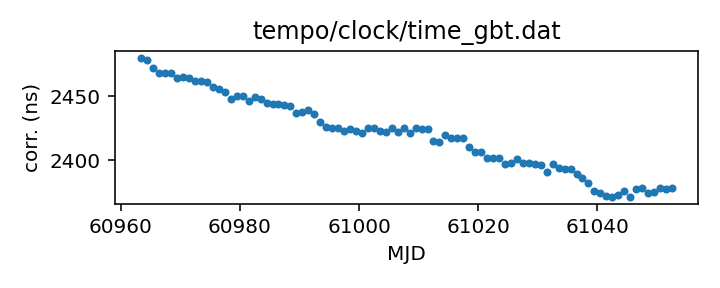
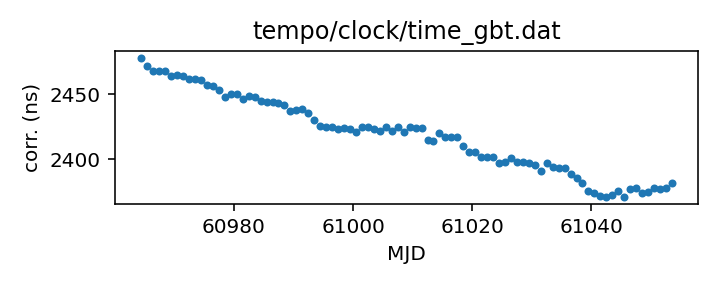
Routine gh-pages update from Github action Wed Jan 14 20:45:09 UTC 2026

diff --git a/status.md b/status.md
@@ -13,18 +13,18 @@ name of each clock file links to a page with more details.
 
 | Name | File | Corrections start | Corrections end | Last check date | Last check result 
 |:--- |:--- | --- | --- | --- |:--- 
-| [GPS to UTC](T2runtime/clock/gps2utc.clk.html) | `T2runtime/clock/gps2utc.clk` | 1993-01-01 MJD 48988.0 | 2025-12-30 MJD 61039.0 | 2026-01-13 | Unchanged 
-| [GPS to UTC (Combined Clock)](T2runtime/clock/gps2utc_cc.clk.html) | `T2runtime/clock/gps2utc_cc.clk` | 1993-01-01 MJD 48988.0 | 2025-12-30 MJD 61039.0 | 2026-01-13 | Unchanged 
-| [GPS to UTC (Corrected)](T2runtime/clock/gps2utc_c0p.clk.html) | `T2runtime/clock/gps2utc_c0p.clk` | 2010-12-29 MJD 55559.0 | 2025-12-30 MJD 61039.0 | 2026-01-13 | Unchanged 
-| [GBT](tempo/clock/time_gbt.dat.html) | `tempo/clock/time_gbt.dat` | 2000-12-31 MJD 51909.5 | 2026-01-12 MJD 61052.5 | 2026-01-13 | Updated 
-| [GBT (TEMPO2 converted from TEMPO)](T2runtime/clock/gbt2gps.clk.html) | `T2runtime/clock/gbt2gps.clk` | 2000-12-31 MJD 51909.5 | 2024-05-18 MJD 60448.5 | 2026-01-13 | **Validation failed** 
+| [GPS to UTC](T2runtime/clock/gps2utc.clk.html) | `T2runtime/clock/gps2utc.clk` | 1993-01-01 MJD 48988.0 | 2025-12-30 MJD 61039.0 | 2026-01-14 | Unchanged 
+| [GPS to UTC (Combined Clock)](T2runtime/clock/gps2utc_cc.clk.html) | `T2runtime/clock/gps2utc_cc.clk` | 1993-01-01 MJD 48988.0 | 2025-12-30 MJD 61039.0 | 2026-01-14 | Unchanged 
+| [GPS to UTC (Corrected)](T2runtime/clock/gps2utc_c0p.clk.html) | `T2runtime/clock/gps2utc_c0p.clk` | 2010-12-29 MJD 55559.0 | 2025-12-30 MJD 61039.0 | 2026-01-14 | Unchanged 
+| [GBT](tempo/clock/time_gbt.dat.html) | `tempo/clock/time_gbt.dat` | 2000-12-31 MJD 51909.5 | 2026-01-13 MJD 61053.5 | 2026-01-14 | Updated 
+| [GBT (TEMPO2 converted from TEMPO)](T2runtime/clock/gbt2gps.clk.html) | `T2runtime/clock/gbt2gps.clk` | 2000-12-31 MJD 51909.5 | 2024-05-18 MJD 60448.5 | 2026-01-14 | **Validation failed** 
 | [Jodrell Bank](T2runtime/clock/jb2gps.clk.html) | `T2runtime/clock/jb2gps.clk` | 2006-10-13 MJD 54021.4 | 2025-10-08 MJD 60956.0 | 2026-01-12 | **Validation failed** 
 | [Jodrell Bank Roach](T2runtime/clock/jbroach2jb.clk.html) | `T2runtime/clock/jbroach2jb.clk` | 2006-10-13 MJD 54021.4 | 2018-03-20 MJD 58197.6 | 2026-01-12 | Unchanged 
 | [Jodrell Bank DFB](T2runtime/clock/jbdfb2jb.clk.html) | `T2runtime/clock/jbdfb2jb.clk` | 2006-10-13 MJD 54021.4 | 2021-02-22 MJD 59268.0 | 2026-01-12 | Unchanged 
 | [Meerkat (observatory)](T2runtime/clock/mk2utc_observatory.clk.html) | `T2runtime/clock/mk2utc_observatory.clk` | 2019-01-01 MJD 58484.0 | 2026-01-07 MJD 61048.0 | 2026-01-12 | Updated 
-| [Leap seconds](tempo/clock/leap.sec.html) | `tempo/clock/leap.sec` | 1972-07-01 MJD 41499.0 | 2017-01-01 MJD 57754.0 | 2026-01-13 | Unchanged 
-| [UT1 table](tempo/clock/ut1.dat.html) | `tempo/clock/ut1.dat` | 1973-01-02 MJD 41684.0 | 2027-01-16 MJD 61421.0 | 2026-01-13 | Unchanged 
-| [UT1 table](T2runtime/clock/ut1.dat.html) | `T2runtime/clock/ut1.dat` | 1973-01-02 MJD 41684.0 | 2027-01-16 MJD 61421.0 | 2026-01-13 | Unchanged 
+| [Leap seconds](tempo/clock/leap.sec.html) | `tempo/clock/leap.sec` | 1972-07-01 MJD 41499.0 | 2017-01-01 MJD 57754.0 | 2026-01-14 | Unchanged 
+| [UT1 table](tempo/clock/ut1.dat.html) | `tempo/clock/ut1.dat` | 1973-01-02 MJD 41684.0 | 2027-01-16 MJD 61421.0 | 2026-01-14 | Unchanged 
+| [UT1 table](T2runtime/clock/ut1.dat.html) | `T2runtime/clock/ut1.dat` | 1973-01-02 MJD 41684.0 | 2027-01-16 MJD 61421.0 | 2026-01-14 | Unchanged 
 
 
 

diff --git a/T2runtime/clock/gbt2gps.clk.md b/T2runtime/clock/gbt2gps.clk.md
@@ -25,12 +25,11 @@ If questions arise about the conversion, contact Anne Archibald
 | Clock file start | 2000-12-31 MJD 51909.5 |
 | Clock file end | 2024-05-18 MJD 60448.5 |
 | Update interval (days) | 1 |
-| Last update attempt | 2026-01-13 |
+| Last update attempt | 2026-01-14 |
 | Last update result | Validation failed |
 
 Log entries from the last few update attempts:
 ```
-2026-01-04 20:44:16.995 - Validation failed: New version of T2runtime/clock/gbt2gps.clk MJDs differ from old version where they overlap in 8407 places
 2026-01-05 20:47:09.663 - Validation failed: New version of T2runtime/clock/gbt2gps.clk MJDs differ from old version where they overlap in 8407 places
 2026-01-06 20:46:01.157 - Validation failed: New version of T2runtime/clock/gbt2gps.clk MJDs differ from old version where they overlap in 8407 places
 2026-01-07 20:47:54.189 - Validation failed: New version of T2runtime/clock/gbt2gps.clk MJDs differ from old version where they overlap in 8407 places
@@ -40,6 +39,7 @@ Log entries from the last few update attempts:
 2026-01-11 20:44:08.374 - Validation failed: New version of T2runtime/clock/gbt2gps.clk MJDs differ from old version where they overlap in 8407 places
 2026-01-12 20:46:41.307 - Validation failed: New version of T2runtime/clock/gbt2gps.clk MJDs differ from old version where they overlap in 8407 places
 2026-01-13 20:47:28.957 - Validation failed: New version of T2runtime/clock/gbt2gps.clk MJDs differ from old version where they overlap in 8407 places
+2026-01-14 20:44:43.789 - Validation failed: New version of T2runtime/clock/gbt2gps.clk MJDs differ from old version where they overlap in 8407 places
 ```
 [Full log](https://raw.githubusercontent.com/ipta/pulsar-clock-corrections/main/log/T2runtime/clock/gbt2gps.clk.log)
 

diff --git a/tempo/clock/time_gbt.dat.md b/tempo/clock/time_gbt.dat.md
@@ -36,14 +36,13 @@ If questions arise, contact Ryan S. Lynch <rlynch@nrao.edu>.
 | Format | tempo |
 | Bogus last correction | False |
 | Clock file start | 2000-12-31 MJD 51909.5 |
-| Clock file end | 2026-01-12 MJD 61052.5 |
+| Clock file end | 2026-01-13 MJD 61053.5 |
 | Update interval (days) | 1 |
-| Last update attempt | 2026-01-13 |
+| Last update attempt | 2026-01-14 |
 | Last update result | Updated |
 
 Log entries from the last few update attempts:
 ```
-2026-01-04 20:44:16.915 - Updated
 2026-01-05 20:47:09.373 - Updated
 2026-01-06 20:46:01.087 - Updated
 2026-01-07 20:47:54.118 - Updated
@@ -53,6 +52,7 @@ Log entries from the last few update attempts:
 2026-01-11 20:44:08.306 - Updated
 2026-01-12 20:46:40.849 - Updated
 2026-01-13 20:47:28.890 - Updated
+2026-01-14 20:44:43.715 - Updated
 ```
 [Full log](https://raw.githubusercontent.com/ipta/pulsar-clock-corrections/main/log/tempo/clock/time_gbt.dat.log)
 

diff --git a/T2runtime/clock/gps2utc_c0p.clk.md b/T2runtime/clock/gps2utc_c0p.clk.md
@@ -30,12 +30,11 @@ about the BIPM's published corrections, contact <tai@bipm.org>.
 | Clock file start | 2010-12-29 MJD 55559.0 |
 | Clock file end | 2025-12-30 MJD 61039.0 |
 | Update interval (days) | 1 |
-| Last update attempt | 2026-01-13 |
+| Last update attempt | 2026-01-14 |
 | Last update result | Unchanged |
 
 Log entries from the last few update attempts:
 ```
-2026-01-04 20:44:16.469 - Unchanged
 2026-01-05 20:47:07.953 - Unchanged
 2026-01-06 20:46:00.677 - Unchanged
 2026-01-07 20:47:52.918 - Unchanged
@@ -45,6 +44,7 @@ Log entries from the last few update attempts:
 2026-01-11 20:44:07.262 - Unchanged
 2026-01-12 20:46:40.340 - Unchanged
 2026-01-13 20:47:28.065 - Unchanged
+2026-01-14 20:44:42.715 - Unchanged
 ```
 [Full log](https://raw.githubusercontent.com/ipta/pulsar-clock-corrections/main/log/T2runtime/clock/gps2utc_c0p.clk.log)
 

diff --git a/T2runtime/clock/gps2utc_cc.clk.md b/T2runtime/clock/gps2utc_cc.clk.md
@@ -29,12 +29,11 @@ about the BIPM's published corrections, contact <tai@bipm.org>.
 | Clock file start | 1993-01-01 MJD 48988.0 |
 | Clock file end | 2025-12-30 MJD 61039.0 |
 | Update interval (days) | 1 |
-| Last update attempt | 2026-01-13 |
+| Last update attempt | 2026-01-14 |
 | Last update result | Unchanged |
 
 Log entries from the last few update attempts:
 ```
-2026-01-04 20:44:16.459 - Unchanged
 2026-01-05 20:47:07.945 - Unchanged
 2026-01-06 20:46:00.669 - Unchanged
 2026-01-07 20:47:52.910 - Unchanged
@@ -44,6 +43,7 @@ Log entries from the last few update attempts:
 2026-01-11 20:44:07.254 - Unchanged
 2026-01-12 20:46:40.333 - Unchanged
 2026-01-13 20:47:28.057 - Unchanged
+2026-01-14 20:44:42.707 - Unchanged
 ```
 [Full log](https://raw.githubusercontent.com/ipta/pulsar-clock-corrections/main/log/T2runtime/clock/gps2utc_cc.clk.log)
 

diff --git a/T2runtime/clock/gps2utc.clk.md b/T2runtime/clock/gps2utc.clk.md
@@ -32,12 +32,11 @@ about the BIPM's published corrections, contact <tai@bipm.org>.
 | Clock file start | 1993-01-01 MJD 48988.0 |
 | Clock file end | 2025-12-30 MJD 61039.0 |
 | Update interval (days) | 1 |
-| Last update attempt | 2026-01-13 |
+| Last update attempt | 2026-01-14 |
 | Last update result | Unchanged |
 
 Log entries from the last few update attempts:
 ```
-2026-01-04 20:44:16.434 - Unchanged
 2026-01-05 20:47:07.923 - Unchanged
 2026-01-06 20:46:00.647 - Unchanged
 2026-01-07 20:47:52.888 - Unchanged
@@ -47,6 +46,7 @@ Log entries from the last few update attempts:
 2026-01-11 20:44:07.232 - Unchanged
 2026-01-12 20:46:40.311 - Unchanged
 2026-01-13 20:47:28.036 - Unchanged
+2026-01-14 20:44:42.685 - Unchanged
 ```
 [Full log](https://raw.githubusercontent.com/ipta/pulsar-clock-corrections/main/log/T2runtime/clock/gps2utc.clk.log)
 

diff --git a/T2runtime/clock/ut1.dat.md b/T2runtime/clock/ut1.dat.md
@@ -30,12 +30,11 @@ If there are any questions, contact Anne Archibald
 | File start | 1973-01-02 MJD 41684.0 |
 | File end | 2027-01-16 MJD 61421.0 |
 | Update interval (days) | 0 |
-| Last update attempt | 2026-01-13 |
+| Last update attempt | 2026-01-14 |
 | Last update result | Unchanged |
 
 Log entries from the last few update attempts:
 ```
-2026-01-04 20:44:26.002 - Unchanged
 2026-01-05 20:47:33.584 - Unchanged
 2026-01-06 20:46:09.304 - Unchanged
 2026-01-07 20:48:06.345 - Unchanged
@@ -45,5 +44,6 @@ Log entries from the last few update attempts:
 2026-01-11 20:44:19.517 - Unchanged
 2026-01-12 20:47:07.498 - Unchanged
 2026-01-13 20:47:41.076 - Unchanged
+2026-01-14 20:44:54.058 - Unchanged
 ```
 [Full log](https://raw.githubusercontent.com/ipta/pulsar-clock-corrections/main/log/T2runtime/clock/ut1.dat.log)

diff --git a/tempo/clock/leap.sec.md b/tempo/clock/leap.sec.md
@@ -21,12 +21,11 @@ If there are any questions, contact Anne Archibald
 | File start | 1972-07-01 MJD 41499.0 |
 | File end | 2017-01-01 MJD 57754.0 |
 | Update interval (days) | 0 |
-| Last update attempt | 2026-01-13 |
+| Last update attempt | 2026-01-14 |
 | Last update result | Unchanged |
 
 Log entries from the last few update attempts:
 ```
-2026-01-04 20:44:17.023 - Unchanged
 2026-01-05 20:47:25.006 - Unchanged
 2026-01-06 20:46:01.186 - Unchanged
 2026-01-07 20:47:54.215 - Unchanged
@@ -36,5 +35,6 @@ Log entries from the last few update attempts:
 2026-01-11 20:44:08.398 - Unchanged
 2026-01-12 20:46:58.174 - Unchanged
 2026-01-13 20:47:28.979 - Unchanged
+2026-01-14 20:44:43.815 - Unchanged
 ```
 [Full log](https://raw.githubusercontent.com/ipta/pulsar-clock-corrections/main/log/tempo/clock/leap.sec.log)

diff --git a/tempo/clock/ut1.dat.md b/tempo/clock/ut1.dat.md
@@ -30,12 +30,11 @@ If there are any questions, contact Anne Archibald
 | File start | 1973-01-02 MJD 41684.0 |
 | File end | 2027-01-16 MJD 61421.0 |
 | Update interval (days) | 0 |
-| Last update attempt | 2026-01-13 |
+| Last update attempt | 2026-01-14 |
 | Last update result | Unchanged |
 
 Log entries from the last few update attempts:
 ```
-2026-01-04 20:44:25.953 - Unchanged
 2026-01-05 20:47:33.533 - Unchanged
 2026-01-06 20:46:09.256 - Unchanged
 2026-01-07 20:48:06.297 - Unchanged
@@ -45,5 +44,6 @@ Log entries from the last few update attempts:
 2026-01-11 20:44:19.473 - Unchanged
 2026-01-12 20:47:07.451 - Unchanged
 2026-01-13 20:47:41.031 - Unchanged
+2026-01-14 20:44:54.009 - Unchanged
 ```
 [Full log](https://raw.githubusercontent.com/ipta/pulsar-clock-corrections/main/log/tempo/clock/ut1.dat.log)
